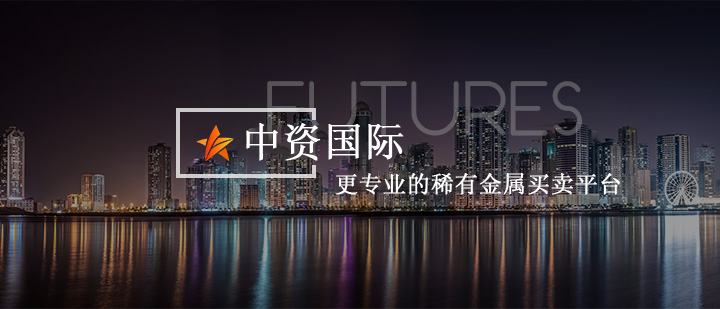
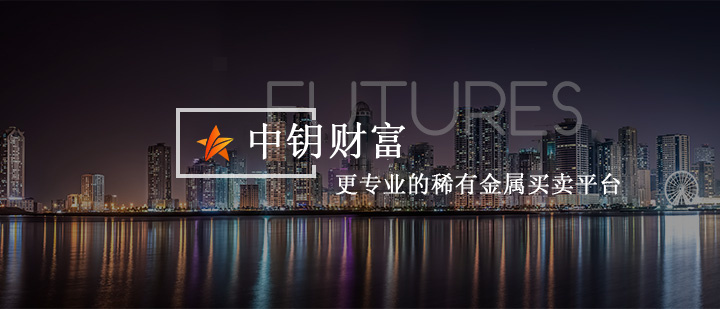
修改了域名

Changed region(s): [[0.3361, 0.3786, 0.5806, 0.5243]]

diff --git a/common/config/bootstrap.php b/common/config/bootstrap.php
@@ -11,8 +11,8 @@ const WX_MCHID = '10028878';
 const WX_KEY = 'weipansoftware610115199009263515';
 const WX_APPSECRET = 'd6c41e94ea5f1589e97238dc77d97e24';
 const WEB_DOMAIN = "http://www.weijiaoyi.com";
-const LY_NOTIFY = "http://www.wgbhkj.com/notify/yl-notify";
-const OURS_NOTIFY = "http://www.wgbhkj.com/notify/ours-notify";
+const LY_NOTIFY = "http://www.zhongyaoqihuo.com/notify/yl-notify";
+const OURS_NOTIFY = "http://www.zhongyaoqihuo.com/notify/ours-notify";
 //数据采集
 const STOCKET_URL = "http://dt.jctytech.com/stock.php";
 const STOCKET_KURL = 'http://api.zb.cn/data/v1/kline';
